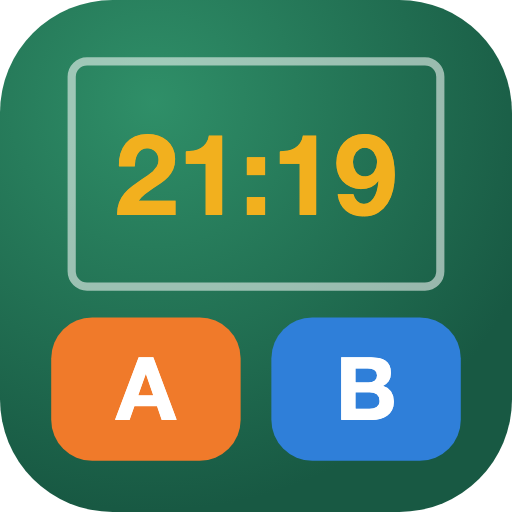
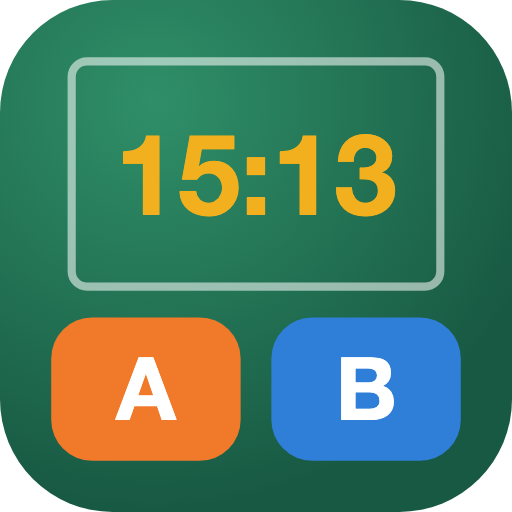
deploy: 2026-11-05T02:14:34Z

Changed region(s): [[0.2188, 0.25, 0.4688, 0.4375], [0.6562, 0.2812, 0.7812, 0.4062], [0.7188, 0.4062, 0.75, 0.4375]]

diff --git a/courtside/index.html b/courtside/index.html
@@ -22,8 +22,12 @@ body{margin:0;background:var(--bg);color:var(--fg);font:16px/1.5 -apple-system,"
 .page{min-height:100%;display:flex;flex-direction:column;gap:10px;
   padding:max(12px,env(safe-area-inset-top)) max(16px,env(safe-area-inset-right)) max(12px,env(safe-area-inset-bottom)) max(16px,env(safe-area-inset-left))}
 [hidden]{display:none!important}
-.ver{color:var(--muted);font-size:12px;font-weight:600}
-header{display:flex;align-items:baseline;gap:8px}header b{font-size:20px}header span{color:var(--muted);font-size:14px;flex:1}
+/* 应用顶栏（试用者 2026-11-04：要像一个工具产品，不像标注器的对话框）：图标 + 名字 + 版本，二级页右边「‹ 记录」 */
+.appbar{display:flex;align-items:center;gap:10px}
+.appicon{width:38px;height:38px;flex:none;border-radius:9px;box-shadow:0 2px 6px rgba(0,0,0,.18)}
+.brand{display:flex;align-items:baseline;gap:6px}.brand b{font-size:20px;letter-spacing:.02em}
+.ver{color:var(--muted);font-size:11px;font-weight:700;border:1px solid var(--line);border-radius:999px;padding:0 6px}
+.appbar #sub{color:var(--muted);font-size:14px;flex:1}
 .hint{color:var(--muted);font-size:13px;margin:0}
 button{font:inherit;cursor:pointer;touch-action:manipulation;color:inherit}
 .btn{padding:9px 12px;border-radius:10px;border:1px solid var(--line);background:var(--card);font-weight:700;font-size:15px}
@@ -37,12 +41,35 @@ input[type=number]{width:3.6em}
 .msg{margin:0;padding:10px 12px;border-radius:10px;background:var(--warnbg);color:var(--warn);font-size:14px}
 
 /* 首页 */
-.home{display:flex;flex-direction:column;gap:12px;max-width:640px;width:100%;margin:0 auto}
+/* 首页：一句话说清楚 → 新的一局（双方、局数比分、开关）→ 两种打点 → 我的记录 */
+.home{display:flex;flex-direction:column;gap:14px;max-width:640px;width:100%;margin:0 auto}
+.hero{display:flex;gap:14px;align-items:center;padding:16px;border-radius:16px;background:linear-gradient(135deg,#185943,#2f8f68);color:#fff}
+.hero .appicon{width:64px;height:64px;border-radius:15px;box-shadow:0 4px 12px rgba(0,0,0,.25)}
+.hero b{display:block;font-size:20px}.hero p{margin:2px 0 0;font-size:13.5px;opacity:.9;line-height:1.5}
+.panel{border:1px solid var(--line);border-radius:16px;background:var(--card);padding:14px;display:flex;flex-direction:column;gap:12px}
+.panel h2{margin:0;font-size:15px;color:var(--muted);font-weight:700;display:flex;justify-content:space-between;align-items:center}
+.vs{display:grid;grid-template-columns:1fr auto 1fr;gap:8px;align-items:center}
+.vs input{width:100%;font-weight:700;font-size:17px}
+.vs .pa{border-left:5px solid var(--a)}.vs .pb{border-left:5px solid var(--b)}
+.vs i{font-style:normal;color:var(--muted);font-weight:800}
+.small-row{display:flex;flex-wrap:wrap;gap:8px 18px;align-items:center;font-size:14px;color:var(--muted)}
+.small-row label{display:flex;gap:6px;align-items:center}
+.sel{font:inherit;padding:6px 8px;border:1px solid var(--line);border-radius:10px;background:var(--card);color:var(--fg)}
+.switch{display:flex;gap:8px;align-items:flex-start;font-size:14px;cursor:pointer}.switch input{width:auto;margin-top:3px}
+.switch small{display:block;color:var(--muted);font-size:12.5px}
 .modes{display:grid;grid-template-columns:1fr 1fr;gap:10px}
-.modes button{text-align:left;display:flex;flex-direction:column;justify-content:flex-start;align-items:flex-start}   /* 两张卡片标题顶对齐（试用者 2026-11-04：说明行数不同时标题高低不一） */.modes small{display:block;font-weight:500;font-size:13px;opacity:.85;margin-top:4px}
+.modes button{text-align:left;display:flex;flex-direction:column;justify-content:flex-start;align-items:flex-start;gap:6px;padding:16px}   /* 两张卡片标题顶对齐（试用者 2026-11-04：说明行数不同时标题高低不一） */
+.modes svg{width:30px;height:30px}
+.modes small{display:block;font-weight:500;font-size:13px;opacity:.88}
 .list{display:flex;flex-direction:column;gap:8px}
-.it{border:1px solid var(--line);border-radius:12px;padding:10px 12px;background:var(--card);display:flex;flex-direction:column;gap:8px}
-.it .acts{display:flex;flex-wrap:wrap;gap:6px}
+.it{border:1px solid var(--line);border-radius:12px;padding:10px 12px;background:var(--bg);display:grid;grid-template-columns:auto 1fr;gap:4px 12px;align-items:center}
+.it .ic{grid-row:span 2;width:36px;height:36px;border-radius:10px;display:grid;place-items:center;color:#fff;font-size:18px}
+.it .ic.live{background:#185943}.it .ic.replay{background:#2F7FD9}
+.it .t{font-weight:800}.it .m{color:var(--muted);font-size:13px}
+.it .acts{grid-column:1/-1;display:flex;flex-wrap:wrap;gap:6px;margin-top:4px}
+.it .acts .btn{padding:6px 10px;font-size:14px}
+.linkbtn{background:none;border:0;color:var(--ok);font-weight:700;font-size:14px;padding:0}
+.foot{text-align:center;color:var(--muted);font-size:12px}
 
 /* 打点（现场全屏；看录像时在视频下面） */
 .score{text-align:center;font-weight:900;font-size:44px;line-height:1.1}
@@ -51,6 +78,10 @@ input[type=number]{width:3.6em}
 .btns{display:grid;grid-template-columns:1fr 1fr;gap:12px}
 .btns button{border:0;border-radius:18px;color:#fff;font-weight:900;font-size:26px;line-height:1.2;-webkit-user-select:none;user-select:none;padding:14px 6px}
 .btns button small{display:block;font-weight:600;font-size:14px;opacity:.85;margin-top:4px}
+/* 回合结束（试用者 2026-11-04，熟练用户用）：球一落地就点，记这一分的结束时间；已经点过变成浅色，再点就改时间 */
+.fin{border:0;border-radius:14px;padding:14px;font-weight:900;font-size:20px;background:#3a3f3c;color:#fff;margin-top:10px;width:100%}
+.fin.done{background:var(--card);color:var(--muted);border:1px solid var(--line);font-size:16px}
+.fin:disabled{opacity:.4}
 .bA{background:var(--a)}.bB{background:var(--b)}
 .btns button:active{filter:brightness(.85);transform:scale(.98)}
 .live{display:flex;flex-direction:column;gap:10px;flex:1;min-height:0}
@@ -118,21 +149,30 @@ progress{width:100%}
 </head>
 <body>
 <div class="page">
-<header><b>场边打点</b><small class="ver" id="ver"></small><span id="sub"></span><button class="btn" id="bHome" type="button" hidden>记录</button></header>
+<header class="appbar"><svg class="appicon" viewBox="0 0 100 100" aria-hidden="true"><defs><radialGradient id="ig" cx=".3" cy=".2" r=".9"><stop offset="0" stop-color="#2f8f68"/><stop offset=".75" stop-color="#185943"/></radialGradient></defs><rect width="100" height="100" rx="22" fill="url(#ig)"/><rect x="14" y="12" width="72" height="44" rx="3" fill="none" stroke="#fff" stroke-opacity=".55" stroke-width="1.6"/><text x="50" y="42" text-anchor="middle" font-family="-apple-system,'Helvetica Neue',Arial,sans-serif" font-weight="900" font-size="22" fill="#F2B01E">15:13</text><rect x="10" y="62" width="37" height="28" rx="8" fill="#F07A2A"/><rect x="53" y="62" width="37" height="28" rx="8" fill="#2F7FD9"/><text x="28.5" y="82" text-anchor="middle" font-family="-apple-system,'Helvetica Neue',Arial,sans-serif" font-weight="900" font-size="17" fill="#fff">A</text><text x="71.5" y="82" text-anchor="middle" font-family="-apple-system,'Helvetica Neue',Arial,sans-serif" font-weight="900" font-size="17" fill="#fff">B</text></svg><div class="brand"><b>场边打点</b><small class="ver" id="ver"></small></div><span id="sub"></span><button class="btn" id="bHome" type="button" hidden>‹ 记录</button></header>
 
-<!-- 首页：开一局 + 记录 -->
+<!-- 首页（试用者 2026-11-04 重做：像一个工具产品） -->
 <section class="home" id="home">
-  <p class="hint">每分发球前，谁发球就点谁，一分只点一下；谁得分、比分都自动算——赢了这一分的人发下一个球。打点和视频都只在这台设备上，不上传。</p>
-  <div class="row"><label>A 叫<input id="nA" maxlength="30" placeholder="A"></label><label>B 叫<input id="nB" maxlength="30" placeholder="B"></label></div>
-  <div class="row"><label>第几局<input id="setNo" type="number" min="1" max="3" value="1"></label>
-    <label>开局比分<input id="sA" type="number" min="0" max="29" value="0"> : <input id="sB" type="number" min="0" max="29" value="0"></label></div>
-  <div class="modes">
-    <button class="go" id="bLive" type="button">现场打点<small>比赛正在打：在场边用另一台手机点（别碰录像的手机）</small></button>
-    <button class="go alt" id="bReplay" type="button">看录像打点<small>已经录好了：载入视频边看边点，可以暂停、倒回去补</small></button>
+  <div class="hero"><svg class="appicon" viewBox="0 0 100 100" aria-hidden="true"><defs><radialGradient id="ig" cx=".3" cy=".2" r=".9"><stop offset="0" stop-color="#2f8f68"/><stop offset=".75" stop-color="#185943"/></radialGradient></defs><rect width="100" height="100" rx="22" fill="url(#ig)"/><rect x="14" y="12" width="72" height="44" rx="3" fill="none" stroke="#fff" stroke-opacity=".55" stroke-width="1.6"/><text x="50" y="42" text-anchor="middle" font-family="-apple-system,'Helvetica Neue',Arial,sans-serif" font-weight="900" font-size="22" fill="#F2B01E">15:13</text><rect x="10" y="62" width="37" height="28" rx="8" fill="#F07A2A"/><rect x="53" y="62" width="37" height="28" rx="8" fill="#2F7FD9"/><text x="28.5" y="82" text-anchor="middle" font-family="-apple-system,'Helvetica Neue',Arial,sans-serif" font-weight="900" font-size="17" fill="#fff">A</text><text x="71.5" y="82" text-anchor="middle" font-family="-apple-system,'Helvetica Neue',Arial,sans-serif" font-weight="900" font-size="17" fill="#fff">B</text></svg><div><b>一分一点，比分自动算</b><p>每分发球前点一下谁发球，谁得分、比分都替你算好——赢了这一分的人发下一个球。赛后按分回看、剪出带比分的精简视频。</p></div></div>
+  <div class="panel">
+    <h2>新的一局</h2>
+    <div class="vs"><input class="pa" id="nA" maxlength="30" placeholder="A 的名字"><i>vs</i><input class="pb" id="nB" maxlength="30" placeholder="B 的名字"></div>
+    <div class="small-row"><label>每局<select id="pts" class="sel"><option value="15">15 分</option><option value="21">21 分</option></select></label>
+      <label>第<input id="setNo" type="number" min="1" max="3" value="1">局</label>
+      <label>开局比分<input id="sA" type="number" min="0" max="29" value="0">:<input id="sB" type="number" min="0" max="29" value="0"></label></div>
+    <div class="modes">
+      <button class="go" id="bLive" type="button"><svg viewBox="0 0 24 24" fill="none" stroke="#fff" stroke-width="2" stroke-linecap="round"><circle cx="12" cy="13" r="8"/><path d="M12 9v4l3 2M9 2h6"/></svg>现场打点<small>比赛正在打：在场边用另一台手机点（别碰录像的手机）</small></button>
+      <button class="go alt" id="bReplay" type="button"><svg viewBox="0 0 24 24" fill="none" stroke="#fff" stroke-width="2" stroke-linejoin="round"><rect x="2" y="5" width="15" height="14" rx="2"/><path d="M17 10l5-3v10l-5-3z"/></svg>看录像打点<small>已经录好了：载入视频边看边点，可以暂停、倒回去补</small></button>
+    </div>
+    <label class="switch"><input type="checkbox" id="advLive"><span>高级：现场打点也显示「回合结束」按钮<small>熟练以后用：球一落地就点，回合结束时间就有了，赛后不用再调（看录像打点一直有这个按钮）</small></span></label>
   </div>
-  <div class="list" id="list"></div>
+  <div class="panel">
+    <h2>我的记录<button class="linkbtn" id="bImport" type="button">载入打点文件</button></h2>
+    <div class="list" id="list"></div>
+  </div>
   <div id="raw" hidden><p class="hint">这里不能直接保存文件：长按下面的文字全选、复制，粘贴到备忘录，存成 .json 文件。</p>
     <textarea id="rawText" readonly style="width:100%;min-height:8em;font:12px/1.4 ui-monospace,Menlo,monospace"></textarea></div>
+  <p class="foot">打点和视频只在这台设备上，不上传。</p>
   <input type="file" id="fJson" accept=".json,application/json" hidden>
 </section>
 
@@ -141,6 +181,7 @@ progress{width:100%}
   <div class="score" id="score"></div>
   <div class="tip" id="tip"></div>
   <div class="btns"><button class="bA" id="lA" type="button"></button><button class="bB" id="lB" type="button"></button></div>
+  <button class="fin" id="lFin" type="button" hidden>回合结束</button>
   <div class="ask" id="askLive" hidden></div>
   <div class="bar"><button class="btn" id="lUndo" type="button">↶ 撤销上一下</button><button class="btn" id="lEnd" type="button">本局结束</button></div>
   <p class="hint">发球前点发球的那一方；重发（擦网等）不用再点。点错了马上「撤销」。</p>
@@ -166,9 +207,10 @@ progress{width:100%}
     <div id="rtap" hidden>
       <div class="tip" id="rtip"></div>
       <div class="btns"><button class="bA" id="rA" type="button"></button><button class="bB" id="rB" type="button"></button></div>
+      <button class="fin" id="rFin" type="button">回合结束</button>
       <div class="ask" id="askReplay" hidden></div>
       <div class="bar" style="margin-top:8px"><button class="btn" id="rUndo" type="button">↶ 撤销上一下</button><button class="btn" id="rEnd" type="button">本局结束</button></div>
-      <p class="hint">播放到发球前就点发球方（电脑上按 A / B 键，空格播放 / 暂停，[ ] 设这一分的开始 / 结束）。倒回去补一分：退到那一分发球前再点，会按时间插进去。</p>
+      <p class="hint">播放到发球前就点发球方（电脑上按 A / B 键，空格播放 / 暂停，E 回合结束，[ ] 设这一分的开始 / 结束）。倒回去补一分：退到那一分发球前再点，会按时间插进去。</p>
     </div>
     <!-- 现场打的：先对齐 -->
     <div id="align" class="exp" hidden>
@@ -180,6 +222,8 @@ progress{width:100%}
   <div class="side">
     <!-- 名字可以在这里改（试用者 2026-11-04：打点时可能没写名字） -->
     <div class="rscore"><input id="eA" class="ename" maxlength="30" title="点一下改名字"><b id="rScore"></b><input id="eB" class="ename" maxlength="30" title="点一下改名字"></div>
+    <!-- 回看时也能改开局比分（试用者 2026-11-05） -->
+    <div class="small-row" style="justify-content:center"><label>每局<select id="rPts" class="sel"><option value="15">15 分</option><option value="21">21 分</option></select></label><label>开局比分 <input id="rsA" type="number" min="0" max="29">:<input id="rsB" type="number" min="0" max="29"></label></div>
     <div class="plist"><table><thead><tr><th data-k="star" title="点一下：有 ★ 的排前面">★</th><th data-k="no" title="点一下：按第几分排">#</th><th data-k="srv" title="点一下：按谁发球排">发球</th><th data-k="win" title="点一下：按谁得分排">打完</th><th data-k="len" title="点一下：按长度排（再点一下反过来）">长度</th></tr></thead><tbody id="rows"></tbody><tfoot><tr><td colspan="5" id="tot"></td></tr></tfoot></table></div>
     <div class="row"><label class="hint">只看 <select id="filt" style="font:inherit;padding:4px 6px;border-radius:8px;border:1px solid var(--line);background:var(--card);color:var(--fg)"></select></label></div>
     <div class="row"><button class="btn" id="bChain" type="button" title="从列表第一行开始，一分接一分放（按列表现在的排序和「只看」）">▶ 按列表连着放</button>
@@ -204,12 +248,13 @@ progress{width:100%}
 
 <script>
 const $ = id => document.getElementById(id);
-const VERSION = "v1.0";   // 试用者 2026-11-04 定为 v1.0；改了功能往上加，打点文件里记着是哪一版打的
+const VERSION = "v1.1";   // 试用者 2026-11-04 定 v1.0；v1.1 加「回合结束」按钮、首页重做。改了功能往上加，打点文件里记着是哪一版打的
 const KEY = "courtside-taps-v1", PRE = 1.5, GAP = 1.0, LAST = 15;   // 回合 = 发球前 1.5 s 到下一分开始前 1 s；最后一分到发球后 15 s
 let cur = null, lock = null, view = "home", sel = -1, playEnd = null, videoStart = null, exporting = false;
 const video = $("video");
 function esc(v){ return String(v==null?"":v).replace(/[&<>"]/g,c=>({"&":"&amp;","<":"&lt;",">":"&gt;",'"':"&quot;"}[c])); }
-function gameOverAt(a,b){ const hi=Math.max(a,b), lo=Math.min(a,b); return hi>=30 || (hi>=21 && hi-lo>=2); }
+/* 一局打完了没有：21 分制 = 先到 21 且领先 2 分、最多到 30；15 分制（试用者 2026-11-05：现在也打 15 分）= 先到 15 且领先 2 分、最多到 21 */
+function gameOverAt(a,b,to=21){ const hi=Math.max(a,b), lo=Math.min(a,b), cap=to>=21?30:21; return hi>=cap || (hi>=to && hi-lo>=2); }
 /* 每一分谁发球、谁得分、打完的比分；last = 最后一分的得分方（本局结束时定） */
 function tapRallies(s){
   const out=[]; let a=s.start.A, b=s.start.B; const T=s.taps;
@@ -219,7 +264,7 @@ function tapRallies(s){
   return {rallies:out, score:{A:a,B:b}};
 }
 /* 只有一方得分能让这局打完，就是它；两方都能或都不能 → 定不了 */
-function tapLastWinner(s){ const sc=tapRallies({...s, last:""}).score, ok=p=>gameOverAt(sc.A+(p==="A"), sc.B+(p==="B"));
+function tapLastWinner(s){ const sc=tapRallies({...s, last:""}).score, ok=p=>gameOverAt(sc.A+(p==="A"), sc.B+(p==="B"), s.to||21);
   return ok("A")&&!ok("B")?"A":ok("B")&&!ok("A")?"B":""; }
 
 /* ===== 存取 ===== */
@@ -251,10 +296,12 @@ function fmt(t){ if(t==null||isNaN(t)) return "—"; const m=Math.floor(t/60), s
    回合起止：人调过的 s / e，没调过的按发球前 PRE 秒到下一分开始前 GAP 秒 */
 function onVideo(s){ return s.taps.length>0 && (s.taps[0].v!=null || s.align!=null); }
 function serveAt(s,i){ const x=s.taps[i]; return x.v!=null ? x.v : s.align + (x.t-s.taps[0].t)/1000; }
+/* 点了「回合结束」的那一刻在视频上的位置：看录像点的直接是 ev；现场点的按两台手机的时间差、对齐后才知道 */
+function finAt(s,i){ const x=s.taps[i]; if(x.ev!=null) return x.ev; if(x.end!=null && x.v==null && s.align!=null) return s.align+(x.end-s.taps[0].t)/1000; return null; }
 function spans(s){
   const n=s.taps.length, dur=video.duration||Infinity, st=[];
   for(let i=0;i<n;i++){ const x=s.taps[i]; st.push(x.s!=null ? x.s : Math.max(0, serveAt(s,i)-PRE)); }
-  return st.map((a,i)=>{ const x=s.taps[i]; const e=x.e!=null ? x.e : i+1<n ? Math.max(a+1, st[i+1]-GAP) : Math.min(dur, serveAt(s,i)+LAST); return [a,e]; });
+  return st.map((a,i)=>{ const x=s.taps[i], fin=finAt(s,i); const e=x.e!=null ? x.e : fin!=null ? Math.max(a+0.5, fin) : i+1<n ? Math.max(a+1, st[i+1]-GAP) : Math.min(dur, serveAt(s,i)+LAST); return [a,e]; });
 }
 
 /* ===== 首页 ===== */
@@ -268,27 +315,30 @@ function render(){
   if(view==="review") renderReview();
 }
 function renderList(){
-  const box=$("list"); box.innerHTML="";
-  const top=document.createElement("div"); top.className="row";
-  const imp=document.createElement("button"); imp.className="btn"; imp.type="button"; imp.textContent="载入打点文件"; imp.onclick=()=>$("fJson").click(); top.appendChild(imp);
-  const h=document.createElement("span"); h.className="hint"; h.textContent=sessions().length?"这台设备上的记录：":"这台设备上还没有记录。"; top.appendChild(h); box.appendChild(top);
-  for(const s of sessions()){ const {score}=tapRallies(s), d=document.createElement("div"); d.className="it";
-    const t=document.createElement("div");
-    t.textContent=`${s.mode==="replay"?"🎬 看录像":"📍 现场"} · ${new Date(s.created).toLocaleString()} · ${nm(s,"A")} ${score.A}:${score.B} ${nm(s,"B")} · 第 ${s.setNo} 局 · ${s.taps.length} 分${s.ended?"":"（没结束）"}${(s.taps||[]).some(x=>x.star)?" · ★"+s.taps.filter(x=>x.star).length:""}`;
-    d.appendChild(t);
+  const box=$("list"); box.innerHTML=""; const all=sessions();
+  if(!all.length){ const p=document.createElement("p"); p.className="hint"; p.textContent="还没有记录。开一局打点，或者载入别的手机上下载的打点文件。"; box.appendChild(p); return; }
+  for(const s of all){ const {score}=tapRallies(s), d=document.createElement("div"), stars=(s.taps||[]).filter(x=>x.star).length; d.className="it";
+    const ic=document.createElement("div"); ic.className="ic "+(s.mode==="replay"?"replay":"live"); ic.textContent=s.mode==="replay"?"▶":"●"; ic.title=s.mode==="replay"?"看录像打的":"现场打的"; d.appendChild(ic);
+    const t=document.createElement("div"); t.className="t"; t.textContent=`${nm(s,"A")} ${score.A} : ${score.B} ${nm(s,"B")}${s.ended?"":" · 没打完"}`; d.appendChild(t);
+    const m=document.createElement("div"); m.className="m"; const dt=new Date(s.created);
+    m.textContent=`第 ${s.setNo} 局 · ${s.taps.length} 分${stars?` · ★${stars}`:""} · ${dt.getMonth()+1}月${dt.getDate()}日 ${String(dt.getHours()).padStart(2,"0")}:${String(dt.getMinutes()).padStart(2,"0")} · ${s.mode==="replay"?"看录像":"现场"}`; d.appendChild(m);
     const acts=document.createElement("div"); acts.className="acts"; d.appendChild(acts);
-    const b=(txt,fn)=>{ const x=document.createElement("button"); x.className="btn"; x.type="button"; x.textContent=txt; x.onclick=fn; acts.appendChild(x); };
+    const b=(txt,fn)=>{ const x=document.createElement("button"); x.className="btn"; x.type="button"; x.textContent=txt; x.onclick=fn; acts.appendChild(x); return x; };
     if(!s.ended && s.mode!=="replay") b("接着点",()=>{ cur=s; msg(""); show("live"); wake(); });
-    b(s.ended?"载入视频回看":"载入视频",()=>{ cur=s; pickVideo(); });
+    b(s.ended?"回看 / 剪视频":"载入视频",()=>{ cur=s; pickVideo(); });
     b("下载",()=>download(s));
+    // 接着打下半段（试用者 2026-11-05：一局分两段录 / 打了一半换视频）：名字、局数照旧，开局比分 = 这条记录打完的比分
+    b("接着打下半段",()=>{ const sc=tapRallies(s).score; $("nA").value=full(s,"A"); $("nB").value=full(s,"B"); $("setNo").value=s.setNo; $("sA").value=sc.A; $("sB").value=sc.B; $("pts").value=String(s.to||21); window.scrollTo(0,0);
+      msg(`名字、第 ${s.setNo} 局照上一段填好了，开局比分带过来 ${sc.A}:${sc.B}${s.ended?"":"（上一段没点「本局结束」，最后一分谁得的没算进去，不对就改一下）"}。选「现场打点」或「看录像打点」开始。`); });
     if(s.ended) b("打下一局",()=>{ $("nA").value=full(s,"A"); $("nB").value=full(s,"B"); $("setNo").value=Math.min(3,s.setNo+1); $("sA").value=0; $("sB").value=0; window.scrollTo(0,0); msg("名字照上一局填好了，选「现场打点」或「看录像打点」开始。"); });
-    b("删除",()=>{ if(d.dataset.sure){ store(sessions().filter(x=>x.id!==s.id)); render(); msg(""); } else { d.dataset.sure="1"; msg("再点一次「删除」才会删掉（删了找不回来）。"); } });
+    const del=b("删除",()=>{ if(d.dataset.sure){ store(sessions().filter(x=>x.id!==s.id)); render(); msg(""); } else { d.dataset.sure="1"; del.textContent="再点一次删除"; } }); del.style.color="#c0392b";
     box.appendChild(d); }
 }
+$("bImport").addEventListener("click",()=>$("fJson").click());
 function newSession(mode){
   const v=id=>Math.max(0,Math.min(29,parseInt($(id).value,10)||0));
   return {id:"tap"+Date.now(), created:Date.now(), names:{A:$("nA").value.trim()||"A", B:$("nB").value.trim()||"B"}, setNo:parseInt($("setNo").value,10)||1,
-          start:{A:v("sA"), B:v("sB")}, taps:[], last:"", ended:false, mode, clock:"wall", ver:VERSION};
+          start:{A:v("sA"), B:v("sB")}, to:parseInt($("pts").value,10)||15, taps:[], last:"", ended:false, mode, clock:"wall", ver:VERSION};
 }
 $("bLive").addEventListener("click",()=>{ cur=newSession("live"); persist(); msg(""); show("live"); wake(); });
 $("bReplay").addEventListener("click",()=>{ cur=newSession("replay"); pickVideo(); });
@@ -301,7 +351,7 @@ $("fJson").addEventListener("change",async e=>{ const f=e.target.files[0]; e.tar
 
 /* ===== 打点（现场 / 看录像共用） ===== */
 function addTap(p){
-  if(!cur||cur.ended) return;
+  if(!cur||cur.ended) return; cur.lastEnd=null;
   let tap;
   if(cur.mode==="replay"){
     const v=Math.max(0, video.currentTime - (video.paused?0:0.2*video.playbackRate));   // 播放中扣掉反应时间
@@ -313,8 +363,29 @@ function addTap(p){
   if(cur.mode!=="replay") msg(""); render();
 }
 function undo(){ if(!cur||!cur.taps.length) return;
+  const le=cur.lastEnd; if(le!=null && cur.taps[le] && cur.taps[le].end!=null){ delete cur.taps[le].end; delete cur.taps[le].ev; cur.lastEnd=null; persist(); msg(`撤销了：第 ${le+1} 分的回合结束`); render(); return; }   // 最近一下是「回合结束」就只撤它
   let i=cur.taps.length-1; if(cur.mode==="replay"){ i=cur.taps.reduce((k,x,j)=>x.v<=video.currentTime+0.05?j:k, cur.taps.length-1); }   // 看录像：撤掉当前位置之前最近的一下
   const x=cur.taps.splice(i,1)[0]; persist(); msg(`撤销了：第 ${i+1} 分 ${nm(cur,x.p)} 发球`); if(sel>=cur.taps.length) sel=cur.taps.length-1; render(); }
+/* 回合结束：记在这一分（现场 = 最后一次发球；看录像 = 视频当前位置之前最近的一次发球）。再点覆盖成最后这次 */
+function finTarget(){ if(!cur||!cur.taps.length) return -1; if(cur.mode!=="replay") return cur.taps.length-1;
+  let k=-1; cur.taps.forEach((x,j)=>{ if(x.v<=video.currentTime+0.05) k=j; }); return k; }
+function addFin(){
+  if(!cur||cur.ended) return; const i=finTarget(); if(i<0){ msg("还没有发球，先点谁发球。"); return; }
+  const x=cur.taps[i];
+  if(cur.mode==="replay"){ const v=Math.max(0, video.currentTime-(video.paused?0:0.2*video.playbackRate));
+    if(v<=x.v){ msg("这个位置还在发球之前，放到球落地再点。"); return; }
+    x.ev=Math.round(v*100)/100; x.end=videoStart!=null ? Math.round(videoStart+v*1000) : Math.round(v*1000); }
+  else x.end=Date.now();
+  cur.lastEnd=i; persist(); try{ navigator.vibrate&&navigator.vibrate([20,40,20]); }catch(e){} msg(""); render(); }
+function finState(){ const i=finTarget(), x=i>=0&&cur.taps[i]; return {i, done:!!(x&&x.end!=null)}; }
+function drawFin(btn){ const {i,done}=finState(); btn.disabled=i<0; btn.classList.toggle("done",done); btn.textContent=done?`第 ${i+1} 分已结束 ✓（再点改时间）`:"回合结束"; }
+for(const id of ["lFin","rFin"]) $(id).addEventListener("click",e=>{ addFin(); e.currentTarget.blur(); });
+const ADV="courtside-adv", PTS="courtside-pts";   // 每局几分：记住上次选的，默认 15 分（试用者 2026-11-05）
+try{ $("pts").value=localStorage.getItem(PTS)||"15"; }catch(e){ $("pts").value="15"; }
+$("pts").addEventListener("change",e=>{ try{ localStorage.setItem(PTS, e.target.value); }catch(err){} });
+function advOn(){ try{ return localStorage.getItem(ADV)==="1"; }catch(e){ return false; } }
+$("advLive").checked=advOn();
+$("advLive").addEventListener("change",e=>{ try{ localStorage.setItem(ADV, e.target.checked?"1":"0"); }catch(err){} });
 function endGame(askBox){
   const s=cur; if(!s) return;
   if(!s.taps.length){ store(sessions().filter(x=>x.id!==s.id)); cur=null; show("home"); return; }
@@ -328,13 +399,15 @@ function endGame(askBox){
   const n=document.createElement("button"); n.type="button"; n.className="no"; n.textContent="不知道"; n.onclick=()=>done(""); box.appendChild(n);
 }
 function tipText(s){ const {score}=tapRallies(s), last=s.taps[s.taps.length-1];
-  if(gameOverAt(score.A,score.B)) return `比分 ${score.A}:${score.B} 这局已经结束了：点「本局结束」`;
+  if(gameOverAt(score.A,score.B,s.to||21)) return `比分 ${score.A}:${score.B} 这局已经结束了：点「本局结束」`;
   // 发球方的分数：双数右区、单数左区（站在自己半场看）
   return last?`${nm(s,last.p)} 现在 ${score[last.p]} 分，应在${score[last.p]%2?"左":"右"}区发球——对不上就是点错了，「撤销」重点`:"第一分发球前点发球的一方"; }
 function renderLive(score, n){
   const s=cur, last=s.taps[n-1];
   $("lA").innerHTML=`${esc(nm(s,"A"))}<small>发球</small>`; $("lB").innerHTML=`${esc(nm(s,"B"))}<small>发球</small>`;
-  $("score").innerHTML=`${esc(nm(s,"A"))} ${score.A} : ${score.B} ${esc(nm(s,"B"))}<small>${n?`第 ${n} 分进行中（${esc(nm(s,last.p))} 发球）`:"还没开始"}</small>`;
+  const finOn=advOn(); $("lFin").hidden=!finOn; if(finOn) drawFin($("lFin"));
+  const st=!n?"还没开始":finOn&&last.end!=null?`第 ${n} 分已结束，等下一次发球`:`第 ${n} 分进行中（${esc(nm(s,last.p))} 发球）`;
+  $("score").innerHTML=`${esc(nm(s,"A"))} ${score.A} : ${score.B} ${esc(nm(s,"B"))}<small>${st}</small>`;
   $("tip").textContent=tipText(s); $("lUndo").disabled=!n; $("lEnd").disabled=s.ended;
 }
 for(const p of ["A","B"]){ $("l"+p).addEventListener("click",e=>{ addTap(p); e.currentTarget.blur(); }); $("r"+p).addEventListener("click",e=>{ addTap(p); e.currentTarget.blur(); }); }
@@ -384,6 +457,7 @@ function tick(){
   if(playEnd!=null && t>=playEnd){ const nx=listOrder[listOrder.indexOf(sel)+1]; if($("chain").checked && cur && nx!=null && onVideo(cur)){ playRally(nx); } else { video.pause(); playEnd=null; } }
   // 编辑时放着放着进了下一分（试用者 2026-11-04：好连续标每分的结束）：选中的那一分跟着换；只在播放中换，拖把手、暂停时不动
   if(!video.paused && sel>=0 && onVideo(cur)){ const sp=spans(cur), j=sp.findIndex(([a,e])=>t>=a&&t<e); if(j>=0 && j!==sel){ sel=j; renderReview(); return; } }
+  if(cur.mode==="replay" && !cur.ended) drawFin($("rFin"));   // 放到别的分，按钮上写的是哪一分跟着变
   drawNow(); drawBoard(t);
 }
 document.addEventListener("keydown",e=>{
@@ -391,6 +465,7 @@ document.addEventListener("keydown",e=>{
   const k=e.key.toLowerCase();
   if(k===" "){ e.preventDefault(); $("vPlay").click(); }
   else if((k==="a"||k==="b") && cur && cur.mode==="replay" && !cur.ended){ e.preventDefault(); addTap(k.toUpperCase()); }
+  else if(k==="e" && cur && cur.mode==="replay" && !cur.ended){ e.preventDefault(); addFin(); }
   else if(k==="["||k==="i"){ e.preventDefault(); markHere("s"); }
   else if(k==="]"||k==="o"){ e.preventDefault(); markHere("e"); }
   else if(e.key==="ArrowLeft"){ e.preventDefault(); video.currentTime=Math.max(0,video.currentTime-(e.shiftKey?0.2:2)); }
@@ -401,11 +476,14 @@ document.addEventListener("keydown",e=>{
 function renderReview(){
   const s=cur, n=s.taps.length, ready=onVideo(s);
   $("rtap").hidden=!(s.mode==="replay" && !s.ended);
+  if(!$("rtap").hidden) drawFin($("rFin"));
   if(!$("rtap").hidden){ $("rA").innerHTML=`${esc(nm(s,"A"))}<small>发球</small>`; $("rB").innerHTML=`${esc(nm(s,"B"))}<small>发球</small>`; $("rtip").textContent=tipText(s); $("rUndo").disabled=!n; }
   $("align").hidden=ready || s.mode==="replay" || !n;
   if(!$("align").hidden){ const g=guess(); $("alignInfo").textContent=`第 1 分 ${nm(s,s.taps[0].p)} 发球。`+(g!=null?`按视频的拍摄时间估计在 ${fmt(g)} 附近。`:"视频里读不到拍摄时间，请自己找到第 1 次发球。"); $("aSeek").hidden=g==null; }
   const {rallies, score}=tapRallies(s), sp=ready?spans(s):[];
   $("rScore").textContent=`${score.A} : ${score.B}`;
+  for(const p of ["A","B"]){ const el2=$("rs"+p); if(document.activeElement!==el2) el2.value=s.start[p]; }
+  $("rPts").value=String(s.to||21);
   for(const p of ["A","B"]){ const el=$("e"+p); if(document.activeElement!==el) el.value=full(s,p); el.title=`${full(s,p)}（其他地方显示成「${nm(s,p)}」；点一下改名字）`; el.placeholder=p; }
   const tb=$("rows"); tb.innerHTML="";
   // 排序（试用者 2026-11-04：按长度排好挑最长的几分打 ★）：编号 / 长度（长的在前，再点反过来）/ ★ 在前；编号一直是第几分，不跟着变
@@ -450,6 +528,9 @@ for(const p of ["A","B"]){ const el=$("e"+p);
   const apply=()=>{ if(!cur) return; const v=el.value.trim()||p; if(v===full(cur,p)) return; cur.names={...(cur.names||{}), [p]:v}; persist(); msg(`${p} 改名为「${v}」`+(nm(cur,p)!==v?`，其他地方显示成「${nm(cur,p)}」。`:"。")); render(); };
   // 输入法（试用者 2026-11-04：中文输入法打 Daniel 按回车变成 DanielDa）：选字时的回车是给输入法的，不能当「输完了」
   el.addEventListener("change",apply); el.addEventListener("keydown",e=>{ if(e.key==="Enter" && !e.isComposing && e.keyCode!==229) el.blur(); e.stopPropagation(); }); }
+for(const p of ["A","B"]) $("rs"+p).addEventListener("change",e=>{ if(!cur) return; const v=Math.max(0,Math.min(29,parseInt(e.target.value,10)||0));
+  cur.start={...cur.start, [p]:v}; persist(); const sc=tapRallies(cur).score; msg(`开局比分改成 ${cur.start.A}:${cur.start.B}，现在 ${sc.A}:${sc.B}。`); render(); });
+$("rPts").addEventListener("change",e=>{ if(!cur) return; cur.to=parseInt(e.target.value,10); persist(); msg(`改成每局 ${cur.to} 分。`); render(); });
 function toggleStar(i){ const x=cur.taps[i], max=Math.max(1,parseInt($("starMax").value,10)||3);
   if(!x.star && cur.taps.filter(y=>y.star).length>=max){ msg(`高亮最多 ${max} 个：先取消一个，或者把上限改大。`); return; }
   x.star=!x.star; if(!x.star) delete x.star; persist(); msg(""); render(); }
